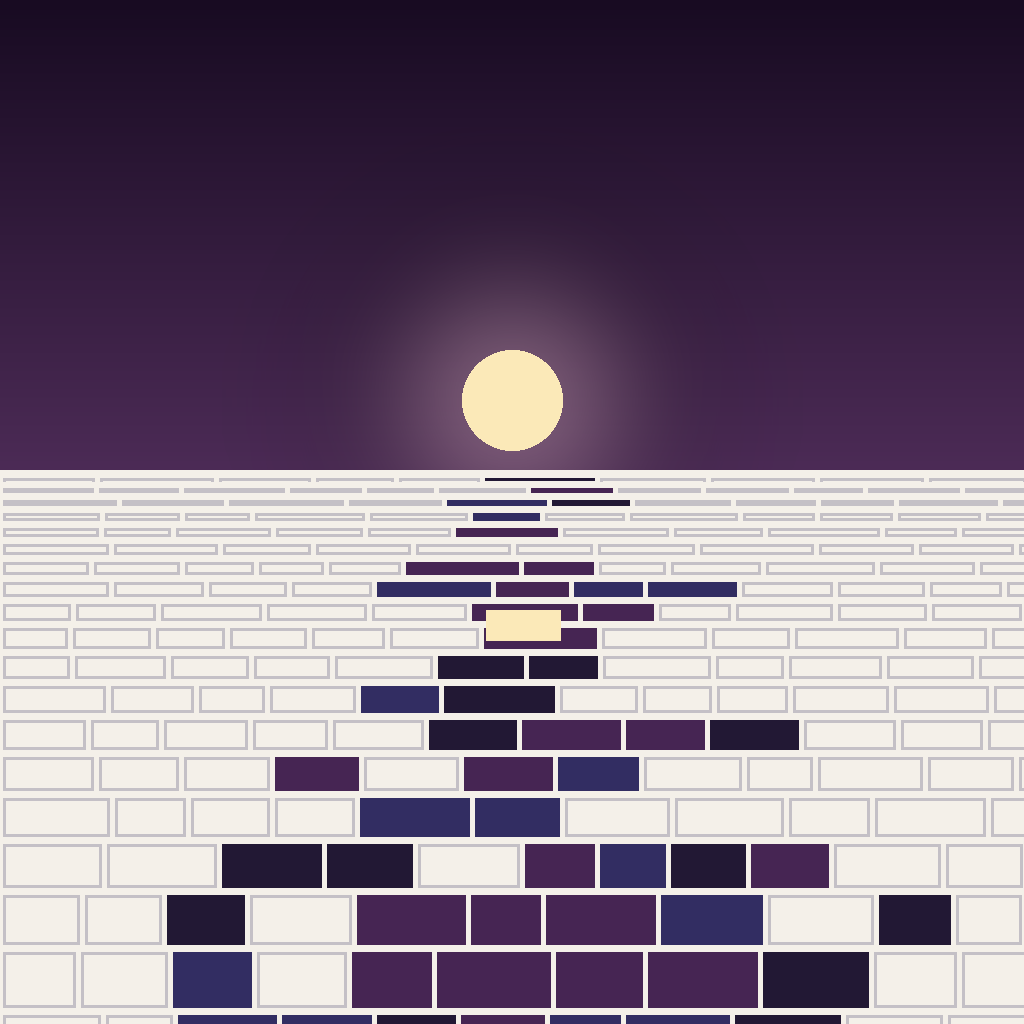
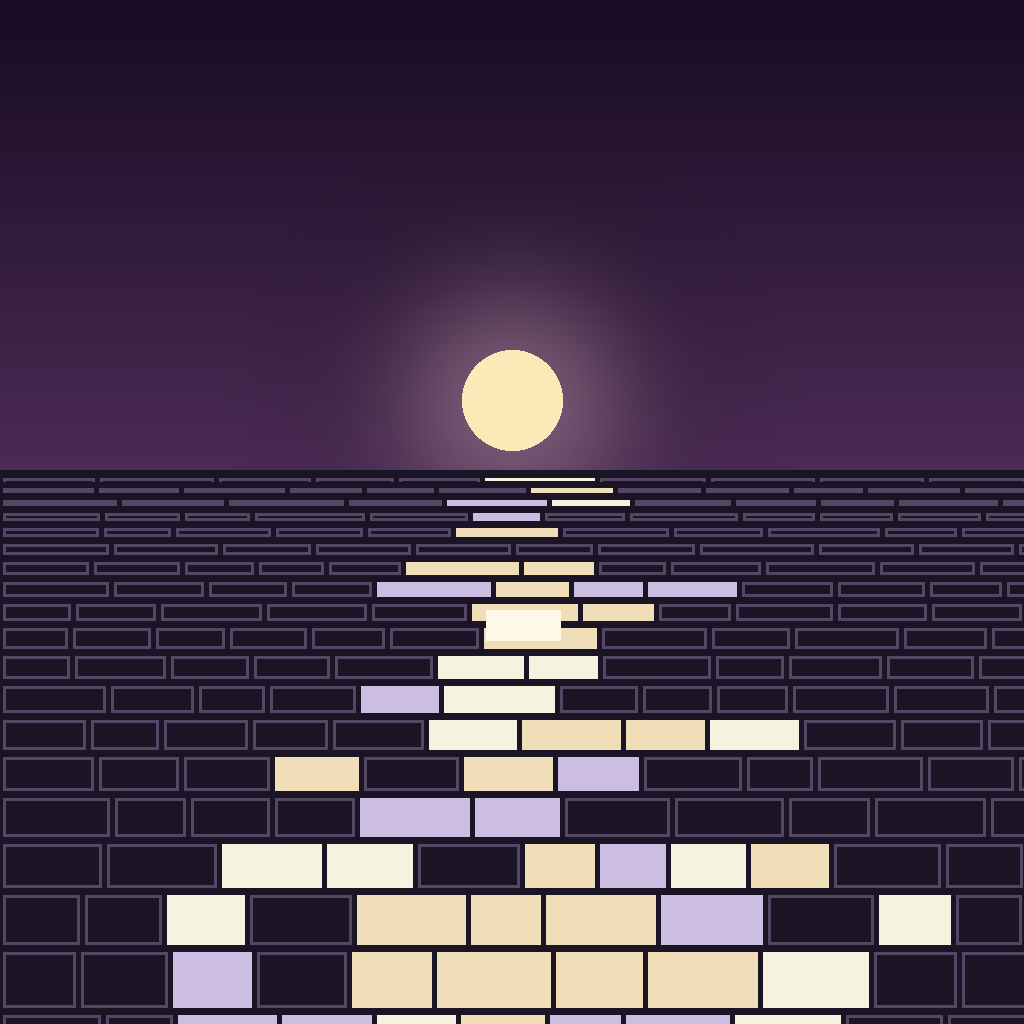
Moon Road: the road reads as light (three critic rounds)
The lake is now Paint by Moonlight's dark paper, its lines and numerals faint, and the moon's paints
moonlight (a cream, a pale gold, a silver-lilac, near in value). Each cell keeps how lately the moon
was in it, fading over 2.2 s: the live road shines toward the flash, a painted cell settles to a
fainter silvery paint, so the road that follows you outshines the trail it left. A newly painted cell
flashes, then settles; the haze dims the dark water more than the light on it; the headland rises
from the water instead of ending square. Icon and Terra's likeness follow the dark lake.

Claude-Session: https://claude.ai/code/session_01BAtskAxJYP5JrnkR7Y8Qzw

diff --git a/toys/moonroad/src/lake.rs b/toys/moonroad/src/lake.rs
@@ -26,6 +26,8 @@ const TOL: f64 = 0.018;
 const SWELL_M: f64 = 7.0;
 const SWELL_S: f64 = 2.1;
 const SWELL_K: f64 = 0.7;
+/// How long a cell stays bright after the moon was last in it (seconds).
+const LIT_S: f64 = 2.2;
 /// A painted cell comes in over this long (seconds).
 const PAINT_S: f64 = 0.45;
 
@@ -36,9 +38,11 @@ pub struct Cell {
     /// paint number, 1..=3
     pub paint: u8,
     pub slope: [f64; 2],
-    /// how much painted, 0..1, and how bright the moon is in it now
+    /// how much painted, 0..1; how bright the moon is in it now; and how lately it shone (the moon
+    /// now, fading over a few seconds), so the live road stays the brightest thing on the water
     pub painted: f32,
     pub glint: f32,
+    pub lit: f32,
     /// the turn of the ring this cell is now (it is a new piece of water when that changes)
     pub lap: i64,
 }
@@ -106,6 +110,7 @@ impl Lake {
                 slope: [rng.n() * CALM, rng.n() * CALM],
                 painted: 0.0,
                 glint: 0.0,
+                lit: 0.0,
                 lap: 0,
             });
         }
@@ -173,6 +178,7 @@ impl Lake {
         self.fresh.clear();
         let tau = if self.slow { TAU_S * 3.0 } else { TAU_S };
         let decay = (-dt / tau).exp();
+        let fade = (-dt / LIT_S).exp() as f32;
         let kick = (1.0 - decay * decay).sqrt();
         let (sel, cel) = MOON_EL.sin_cos();
         let omega = std::f64::consts::TAU / SWELL_S;
@@ -190,6 +196,7 @@ impl Lake {
                     // a fresh piece of water comes into the ring: unpainted
                     cell.lap = lap;
                     cell.painted = 0.0;
+                    cell.lit = 0.0;
                 }
                 let u = col as f64 + (lap * NU as i64) as f64 + cell.j[0] as f64;
                 let d = self.row_m(row, cell.j[1] as f64);
@@ -210,6 +217,7 @@ impl Lake {
                 let e = [(-s[0]) - need[0], (-s[1]) - need[1]];
                 let g = (-(e[0] * e[0] + e[1] * e[1]) / (2.0 * TOL * TOL)).exp() as f32;
                 cell.glint = g;
+                cell.lit = (cell.lit * fade).max(g);
                 if g > 0.5 && cell.painted < 0.01 {
                     self.fresh.push([x - self.x_eye, d]);
                 }
@@ -221,14 +229,14 @@ impl Lake {
         }
     }
 
-    /// The field's four numbers a cell: painted, glint, the seed across, the seed out plus two for
+    /// The field's four numbers a cell: painted, how lately lit, the seed across, the seed out plus two for
     /// each paint past the first.
     pub fn texels(&self, out: &mut Vec<[f32; 4]>) {
         out.clear();
         out.extend(self.cells.iter().map(|c| {
             [
                 c.painted,
-                c.glint,
+                c.lit,
                 c.j[0],
                 c.j[1] + 2.0 * (c.paint - 1) as f32,
             ]

diff --git a/toys/terra/src/doors/likeness/ground.rs b/toys/terra/src/doors/likeness/ground.rs
@@ -176,13 +176,13 @@ fn barchans(p: &mut Painter, sp: &Spot, tm: f64) {
     }
 }
 
-/// Moon Road: a plum night over a cream lake, the low moon, and under it its road of painted cells,
+/// Moon Road: a plum night over a dark template lake, the low moon, and under it its road of cells painted in moonlight,
 /// a glint flashing in it here and there.
 fn moonroad(p: &mut Painter, sp: &Spot, tm: f64) {
     let (kf, a) = (sp.kf, sp.a);
     let at = |x: f64, y: f64| sp.at(x, y);
     sp.glass(p, [0.24, 0.13, 0.29]);
-    // the lake: the lower half of the glass, cream paper
+    // the lake: the lower half of the glass, the dark paper
     for j in 0..5 {
         let y = 0.12 + j as f64 * 0.17;
         let half = (1.0 - y * y).max(0.0).sqrt() * 0.92;
@@ -191,21 +191,21 @@ fn moonroad(p: &mut Painter, sp: &Spot, tm: f64) {
             at(half, y),
             (0.1 * sp.r * sp.k) as f32,
             kf,
-            [0.95, 0.93, 0.90, 0.95 * a],
+            [0.11, 0.08, 0.15, 0.95 * a],
         );
     }
     p.disc(at(0.0, -0.22), 3.2 * kf, 0.8 * kf, [0.98, 0.90, 0.68, a]);
     // the road: cells in the three paints, widening toward you, one flashing
-    let paints = [[0.14, 0.10, 0.21], [0.28, 0.15, 0.33], [0.20, 0.18, 0.39]];
+    let paints = [[0.97, 0.95, 0.88], [0.94, 0.87, 0.72], [0.80, 0.75, 0.89]];
     for i in 0..14 {
         let y = 0.06 + (i as f64 / 13.0).powf(1.3) * 0.82;
         let x = (hash(i as f64 + 3.0) - 0.5) * (0.06 + 0.3 * y);
         let c = paints[i % 3];
         let flash = (0.5 + 0.5 * (tm * 2.3 + i as f64 * 1.7).sin()).powi(8) as f32;
         let col = [
-            c[0] + (0.98 - c[0]) * flash,
-            c[1] + (0.90 - c[1]) * flash,
-            c[2] + (0.68 - c[2]) * flash,
+            c[0] + (1.0 - c[0]) * flash,
+            c[1] + (0.98 - c[1]) * flash,
+            c[2] + (0.92 - c[2]) * flash,
             a,
         ];
         p.disc(at(x, y), (0.8 + 2.6 * y) as f32 * kf, 0.5 * kf, col);

diff --git a/tools/toys/icon.py b/tools/toys/icon.py
@@ -618,7 +618,7 @@ def barchans():
 
 
 def moonroad():
-    # Paint by Moonlight's plum night over a cream template lake, the low moon, and its road painted
+    # Paint by Moonlight's plum night over a dark template lake, the low moon, and its road painted
     # down the water in three paints, one cell still flashing
     img = Image.new('RGBA', (N, N), (36, 16, 46, 255))
     d = ImageDraw.Draw(img)
@@ -631,9 +631,9 @@ def moonroad():
     img = Image.alpha_composite(img, halo.filter(ImageFilter.GaussianBlur(70)))
     d = ImageDraw.Draw(img)
     d.ellipse([462, 350, 562, 450], fill=(251, 233, 184, 255))
-    d.rectangle([0, hy, N, N], fill=(244, 240, 233, 255))
+    d.rectangle([0, hy, N, N], fill=(27, 20, 37, 255))
     rnd = random.Random(333)
-    paints = [(34, 24, 52), (70, 37, 83), (50, 45, 98)]
+    paints = [(246, 242, 224), (240, 222, 184), (204, 190, 227)]
     y = hy + 6.0
     while y < N:
         h = 6 + (y - hy) * 0.11
@@ -646,10 +646,10 @@ def moonroad():
             if rnd.random() < road:
                 d.rectangle(box, fill=rnd.choice(paints) + (255,))
             else:
-                d.rectangle(box, outline=(196, 192, 198, 255), width=3)
+                d.rectangle(box, outline=(84, 71, 102, 255), width=3)
             x += w
         y += h + 4
-    d.rectangle([486, 610, 560, 640], fill=(251, 233, 184, 255))
+    d.rectangle([486, 610, 560, 640], fill=(255, 250, 232, 255))
     return img
 
 

diff --git a/toys/moonroad/src/lib.rs b/toys/moonroad/src/lib.rs
@@ -1,6 +1,6 @@
 //! Moon Road (a working title), in homage to Paint by Moonlight: Lake Superior from the beach at
-//! moonrise, the water a numbered template of facets on cream paper (`lake.rs`). The moon paints it:
-//! every facet that tilts the moon's light to your eye flashes, then keeps its paint, so the road of
+//! moonrise, the water a numbered template of facets on Paint by Moonlight's dark paper (`lake.rs`). The moon paints it:
+//! every facet that tilts the moon's light to your eye flashes, then keeps a moonlight paint, so the road of
 //! light down the water from the moon to you fills in, number by number. A tap is a gust that ruffles
 //! the water and spreads the road; a drag walks you along the shore, and the road comes with you,
 //! leaving what it painted behind. Shake for a fresh page. painting-company row 333.

diff --git a/toys/moonroad/SOURCES.md b/toys/moonroad/SOURCES.md
@@ -22,5 +22,5 @@ by code.
 ## Drawn
 
 The template's cells (about a facet's worth of water each, fixed to the water and foreshortened as the
-surface is), the paints and their numbers, Paint by Moonlight's plum night and cream paper, the moon drawn
+surface is), the paints and their numbers, Paint by Moonlight's plum night and dark paper, the moon drawn
 larger than its half a degree, the haze, the point of land, the swell's period and length, the sound.
